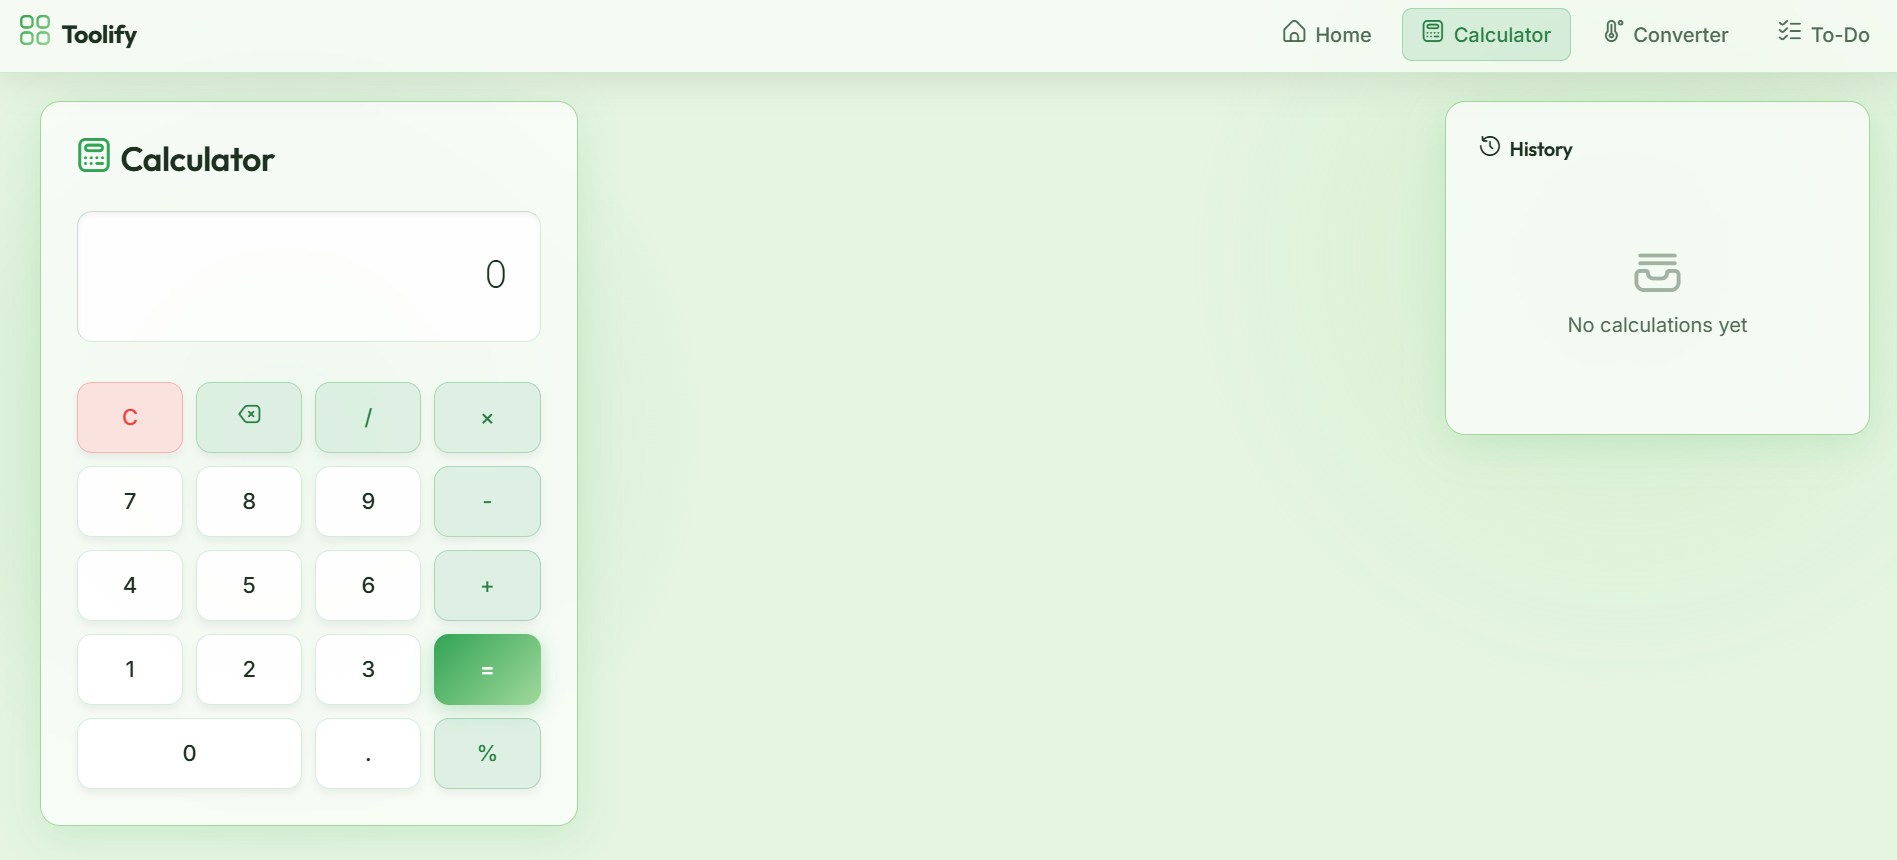
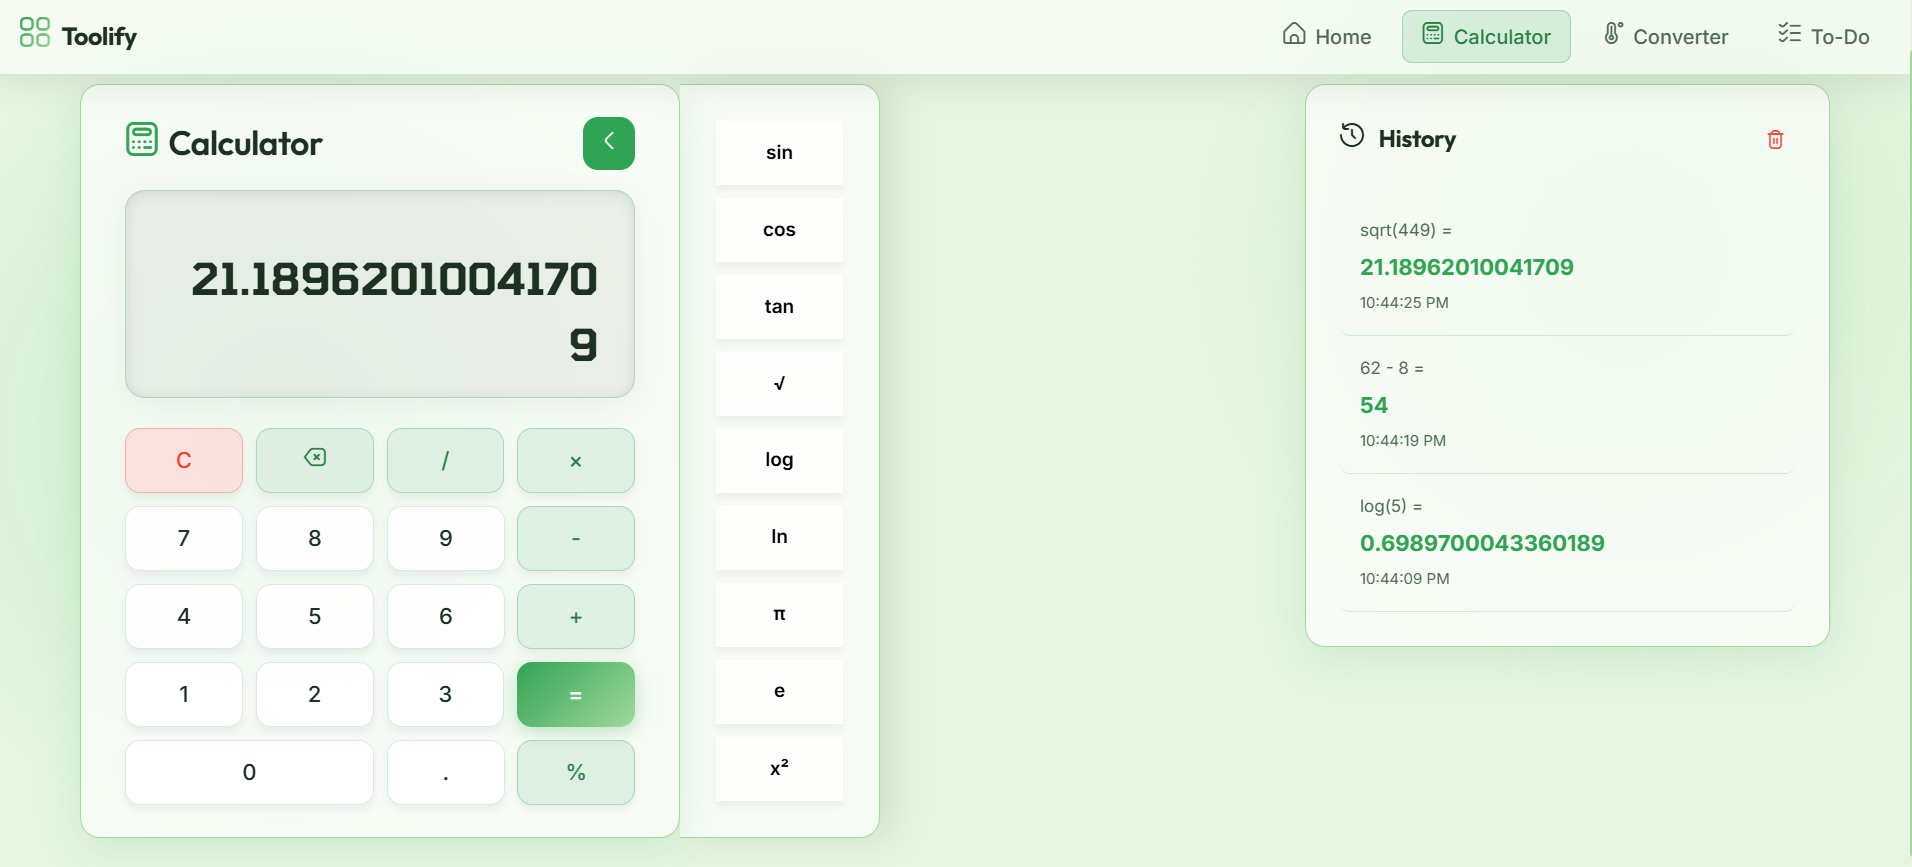
added responsive styling and layout for the calculator page

diff --git a/src/pages/Calculator/Calculator.css b/src/pages/Calculator/Calculator.css
@@ -40,7 +40,7 @@
   backdrop-filter: blur(12px);
   border: 1px solid var(--border);
   border-radius: 16px;
-  padding: 2.2rem;
+  padding: 1.6rem 2.2rem;
   width: 480px; /* Fixed width */
   font-size: 1rem;
   box-shadow: var(--glass-shadow);
@@ -88,7 +88,7 @@
   display: flex;
   justify-content: space-between;
   align-items: center;
-  margin-bottom: 1.5rem;
+  margin-bottom: 1rem;
 }
 
 .calculator-header h1 {
@@ -107,14 +107,14 @@
 .calculator-display {
   background: rgba(0, 0, 0, 0.05);
   border-radius: 16px;
-  padding: 1.5rem 2rem;
-  margin-bottom: 2.5rem;
+  padding: 1rem 1.8rem;
+  margin-bottom: 1.5rem;
   border: 1px solid rgba(49, 163, 84, 0.3);
   box-shadow: 
     inset 0 2px 10px rgba(0, 0, 0, 0.1),
     0 4px 20px rgba(0, 0, 0, 0.05);
   position: relative;
-  min-height: 140px;
+  min-height: 110px;
   display: flex;
   flex-direction: column;
   justify-content: flex-end;
@@ -154,7 +154,7 @@
 
 .button-grid button {
   border: 1px solid var(--border-light);
-  padding: 0.9rem;
+  padding: 0.75rem;
   font-size: 1.1rem;
   border-radius: 12px;
   cursor: pointer;
@@ -220,7 +220,7 @@
 }
 
 .advanced-buttons button {
-  padding: 0.8rem;
+  padding: 0.6rem;
   font-size: 0.95rem;
   font-weight: 600;
   background: rgba(255, 255, 255, 0.4);
